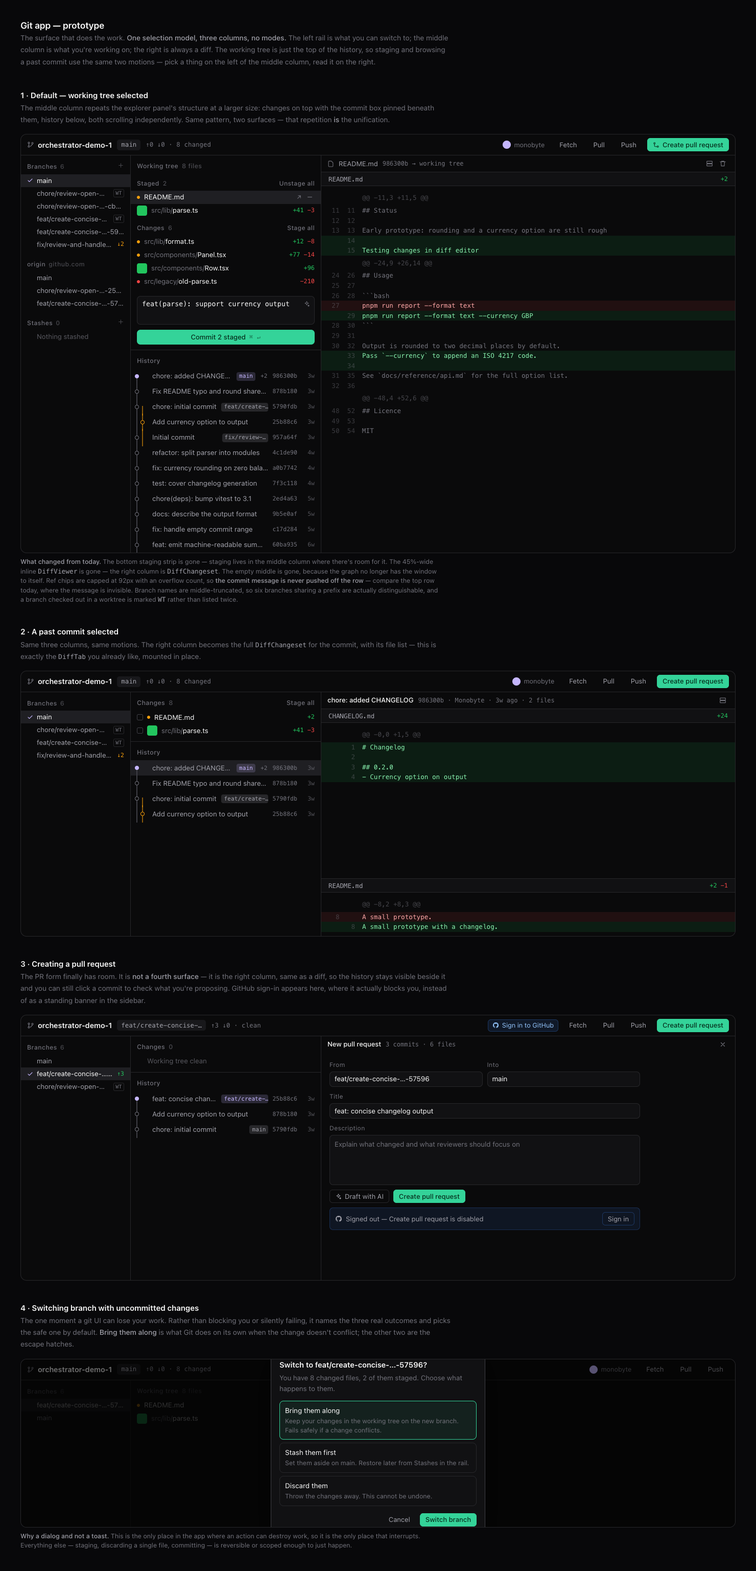
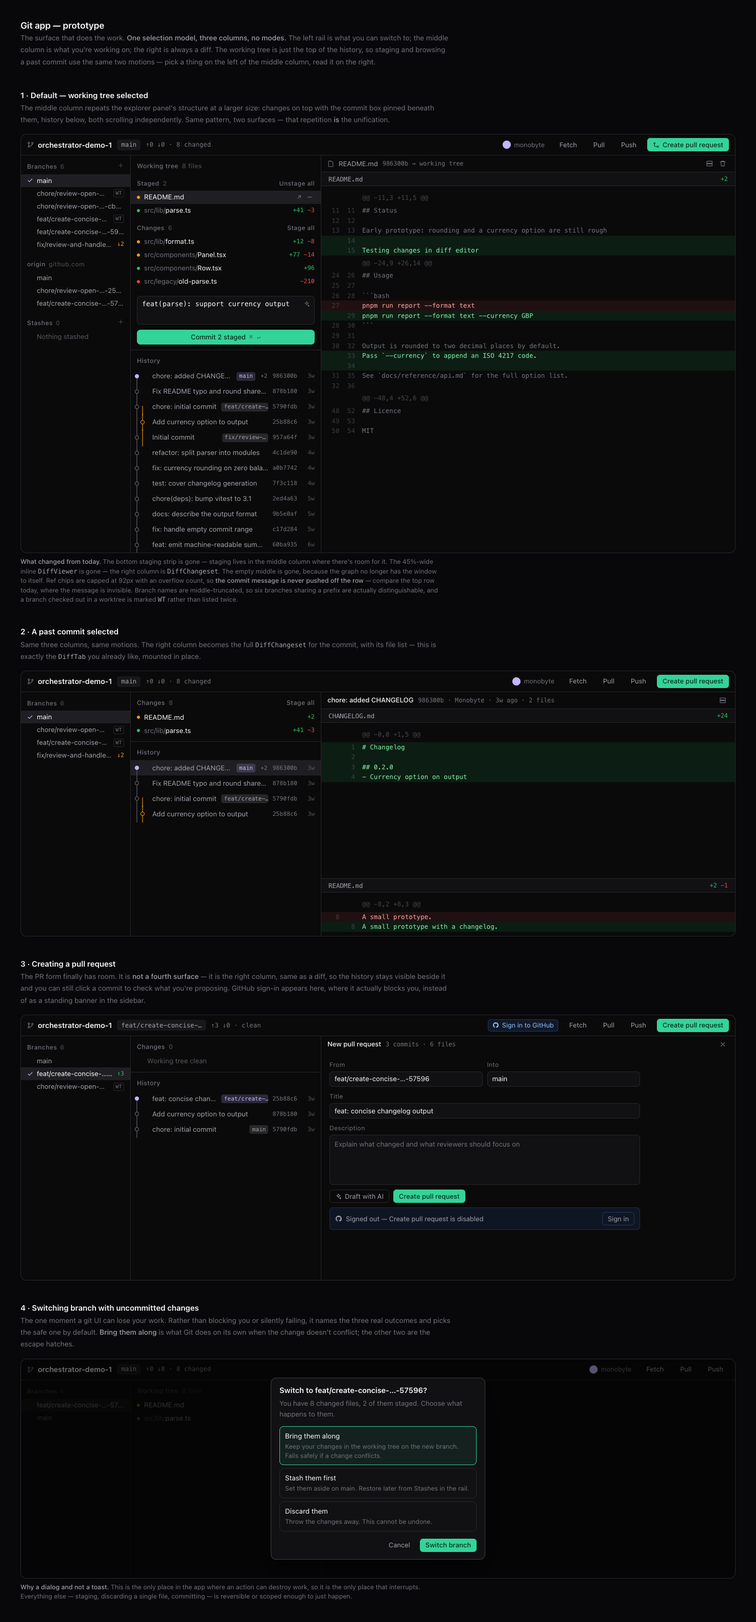
fix(prototype): dot/button class collision, stray checkboxes, draggable graph split (#302)

diff --git a/docs/prototypes/git-ux/git-graph.html b/docs/prototypes/git-ux/git-graph.html
@@ -62,6 +62,7 @@ svg{flex:0 0 auto}
   color:var(--text-muted);text-transform:uppercase;flex:0 0 auto}
 .ghead .c1{width:210px;padding-left:14px} .ghead .c2{width:180px} .ghead .c3{flex:1}
 .ghead .c4{width:84px} .ghead .c5{width:104px} .ghead .c6{width:52px;text-align:right;padding-right:14px}
+.ghead{padding-right:0}
 
 .grid{position:relative;flex:1;min-height:0}
 .rows{position:absolute;inset:0;z-index:0}
@@ -80,6 +81,15 @@ svg{flex:0 0 auto}
 .tag.head{box-shadow:inset 0 0 0 1px currentColor}
 .wip{color:var(--brand-primary);background:color-mix(in srgb,var(--brand-primary) 14%,transparent)}
 .lanes{position:absolute;left:210px;top:0;width:180px;height:420px;pointer-events:none;z-index:1}
+.grid{overflow:hidden}
+.split{height:9px;flex:0 0 9px;display:flex;align-items:center;justify-content:center;cursor:row-resize;
+  background:var(--bg-base);border-top:1px solid var(--border-subtle)}
+.split:hover{background:var(--bg-elevated)}
+.split .grip{width:38px;height:3px;border-radius:2px;background:var(--border-default)}
+.split:hover .grip{background:var(--text-muted)}
+.chev{margin-left:auto;display:flex;align-items:center;gap:5px;padding-right:14px;cursor:pointer;
+  font-size:0.72rem;letter-spacing:.06em;color:var(--text-muted)}
+.chev:hover{color:var(--text-secondary)}
 
 /* ---- bottom detail ---- */
 .detail{flex:1;min-height:0;display:flex;border-top:1px solid var(--border-subtle)}
@@ -177,6 +187,7 @@ read off the graph without checking anything.
         <div class="ghead">
           <span class="c1">Branch / tag</span><span class="c2">Graph</span><span class="c3">Commit</span>
           <span class="c4">SHA</span><span class="c5">Author</span><span class="c6">When</span>
+          <span class="chev">Collapse <svg width="12" height="12" viewBox="0 0 24 24" fill="none" stroke="currentColor" stroke-width="2" stroke-linecap="round"><path d="M6 15l6-6 6 6"/></svg></span>
         </div>
         <div class="grid">
           <svg class="lanes" width="180" height="420" viewBox="0 0 180 420">
@@ -235,6 +246,7 @@ read off the graph without checking anything.
         </div>
       </div>
 
+      <div class="split"><span class="grip"></span></div>
       <div class="detail">
         <div class="files">
           <div class="sec">Staged <span class="n">2</span><span class="act">Unstage all</span></div>
@@ -287,6 +299,173 @@ read off the graph without checking anything.
     </div>
   </div>
 </div>
+
+<h2>Dragging the split</h2>
+<p class="note">
+The divider between the graph and the working tree is draggable, and the graph header collapses it outright —
+so the same window serves both jobs. Reading history: pull it down. Committing: push it up and the diff takes
+the height. <b>You don't have to choose a layout; you choose it per moment.</b> Below is the same app with the
+graph dragged to five rows.
+</p>
+
+<div class="app" style="height:600px">
+  <div class="topbar">
+    <div class="repo">
+      <svg width="14" height="14" viewBox="0 0 24 24" fill="none" stroke="var(--text-muted)" stroke-width="2" stroke-linecap="round"><circle cx="6" cy="6" r="2.5"/><circle cx="6" cy="18" r="2.5"/><path d="M6 8.5v7"/><circle cx="18" cy="7" r="2.5"/><path d="M18 9.5c0 5-6 3.5-6 8.5"/></svg>
+      orchestrator-demo-1
+    </div>
+    <span class="bchip">main</span>
+    <span class="sync">↑0 ↓0 · 8 changed</span>
+    <span style="flex:1"></span>
+    <span class="ghchip"><span class="av"></span>monobyte</span>
+    <span class="tb">Fetch</span><span class="tb">Pull</span><span class="tb">Push</span>
+    <span class="tb solid">Create pull request</span>
+  </div>
+  <div class="hair"></div>
+
+  <div class="body">
+    <div class="rail">
+      <div class="grp">Branches <span class="n">6</span></div>
+      <div class="rrow on"><span class="sw" style="background:var(--l0)"></span><span class="nm">main</span></div>
+      <div class="rrow"><span class="sw" style="background:var(--l2)"></span><span class="nm">chore/review-open-…-25cb4</span><span class="wt">WT</span></div>
+      <div class="rrow"><span class="sw" style="background:var(--l1)"></span><span class="nm">feat/create-concise-…-57596</span><span class="wt">WT</span></div>
+      <div class="rrow"><span class="sw" style="background:var(--l3)"></span><span class="nm">fix/review-and-handle-…-e644e</span><span class="ct">↓2</span></div>
+      <div class="rrow"><span class="sw" style="background:var(--l4)"></span><span class="nm">chore/review-open-…-cb4-r6</span></div>
+      <div class="rrow"><span class="sw" style="background:var(--bg-muted)"></span><span class="nm">feat/create-concise-…-596-r2</span></div>
+
+      <div class="grp" style="padding-top:16px">origin <span class="n">github.com</span></div>
+      <div class="rrow"><span class="sw" style="background:var(--bg-muted)"></span><span class="nm">main</span></div>
+      <div class="rrow"><span class="sw" style="background:var(--bg-muted)"></span><span class="nm">chore/review-open-…-25cb4</span></div>
+      <div class="rrow"><span class="sw" style="background:var(--bg-muted)"></span><span class="nm">feat/create-concise-…-57596</span></div>
+
+      <div class="grp" style="padding-top:16px">Stashes <span class="n">0</span></div>
+      <div class="rrow" style="opacity:.6"><span class="sw"></span><span class="nm">Nothing stashed</span></div>
+    </div>
+    <div class="vhair"></div>
+
+    <div class="main">
+      <div class="graphwrap" style="height:176px;flex:0 0 176px">
+        <div class="ghead">
+          <span class="c1">Branch / tag</span><span class="c2">Graph</span><span class="c3">Commit</span>
+          <span class="c4">SHA</span><span class="c5">Author</span><span class="c6">When</span>
+          <span class="chev">Expand <svg width="12" height="12" viewBox="0 0 24 24" fill="none" stroke="currentColor" stroke-width="2" stroke-linecap="round"><path d="M6 9l6 6 6-6"/></svg></span>
+        </div>
+        <div class="grid">
+          <svg class="lanes" width="180" height="420" viewBox="0 0 180 420">
+            <!-- lane 0 : main, continuous -->
+            <path d="M20 0 V405" stroke="var(--l0)" stroke-width="2" fill="none"/>
+            <!-- lane 2 : chore/review — forks at r4, merges into main at r0 -->
+            <path d="M20 15 C20 30 56 30 56 45" stroke="var(--l2)" stroke-width="2" fill="none"/>
+            <path d="M56 45 V105" stroke="var(--l2)" stroke-width="2" fill="none"/>
+            <path d="M56 105 C56 120 20 120 20 135" stroke="var(--l2)" stroke-width="2" fill="none"/>
+            <!-- lane 1 : feat/changelog — forks at r8, merges into main at r4 -->
+            <path d="M20 135 C20 150 92 150 92 165" stroke="var(--l1)" stroke-width="2" fill="none"/>
+            <path d="M92 165 V225" stroke="var(--l1)" stroke-width="2" fill="none"/>
+            <path d="M92 225 C92 240 20 240 20 255" stroke="var(--l1)" stroke-width="2" fill="none"/>
+            <!-- lane 3 : fix/… — unmerged, tip only -->
+            <path d="M128 285 C128 300 20 300 20 315" stroke="var(--l3)" stroke-width="2" fill="none"/>
+            <!-- nodes -->
+            <circle cx="20"  cy="15"  r="5.5" fill="var(--bg-base)" stroke="var(--l0)" stroke-width="2.5"/>
+            <circle cx="20"  cy="15"  r="2"   fill="var(--l0)"/>
+            <circle cx="56"  cy="45"  r="4.5" fill="var(--bg-base)" stroke="var(--l2)" stroke-width="2"/>
+            <circle cx="56"  cy="75"  r="4.5" fill="var(--bg-base)" stroke="var(--l2)" stroke-width="2"/>
+            <circle cx="56"  cy="105" r="4.5" fill="var(--bg-base)" stroke="var(--l2)" stroke-width="2"/>
+            <circle cx="20"  cy="135" r="5.5" fill="var(--bg-base)" stroke="var(--l0)" stroke-width="2.5"/>
+            <circle cx="20"  cy="135" r="2"   fill="var(--l0)"/>
+            <circle cx="92"  cy="165" r="4.5" fill="var(--bg-base)" stroke="var(--l1)" stroke-width="2"/>
+            <circle cx="92"  cy="195" r="4.5" fill="var(--bg-base)" stroke="var(--l1)" stroke-width="2"/>
+            <circle cx="92"  cy="225" r="4.5" fill="var(--bg-base)" stroke="var(--l1)" stroke-width="2"/>
+            <circle cx="20"  cy="255" r="4.5" fill="var(--bg-base)" stroke="var(--l0)" stroke-width="2"/>
+            <circle cx="128" cy="285" r="4.5" fill="var(--bg-base)" stroke="var(--l3)" stroke-width="2"/>
+            <circle cx="20"  cy="315" r="4.5" fill="var(--bg-base)" stroke="var(--l0)" stroke-width="2"/>
+            <circle cx="20"  cy="345" r="4.5" fill="var(--bg-base)" stroke="var(--l0)" stroke-width="2"/>
+            <circle cx="20"  cy="375" r="4.5" fill="var(--bg-base)" stroke="var(--l0)" stroke-width="2"/>
+            <circle cx="20"  cy="405" r="4.5" fill="var(--bg-base)" stroke="var(--l0)" stroke-width="2"/>
+          </svg>
+
+          <div class="rows">
+            <div class="grow on">
+              <span class="c1"><span class="tag head" style="color:var(--l0);background:color-mix(in srgb,var(--l0) 16%,transparent)"><i style="background:var(--l0)"></i>main</span><span class="tag" style="color:var(--text-muted);background:var(--bg-muted)">origin/main</span></span>
+              <span class="c2"></span>
+              <span class="c3 merge">Merge branch 'chore/review-open-github-issues'</span>
+              <span class="c4">986300b</span><span class="c5">Monobyte</span><span class="c6">3w</span>
+            </div>
+            <div class="grow"><span class="c1"><span class="tag" style="color:var(--l2);background:color-mix(in srgb,var(--l2) 16%,transparent)"><i style="background:var(--l2)"></i>chore/review-…-25cb4</span></span><span class="c2"></span><span class="c3">chore: claim issue #41 and open the loop</span><span class="c4">3a37564</span><span class="c5">Monobyte</span><span class="c6">3w</span></div>
+            <div class="grow"><span class="c1"></span><span class="c2"></span><span class="c3">chore: review open GitHub issues</span><span class="c4">c8f1d02</span><span class="c5">Monobyte</span><span class="c6">3w</span></div>
+            <div class="grow"><span class="c1"></span><span class="c2"></span><span class="c3">chore: add the triage checklist</span><span class="c4">44be9a1</span><span class="c5">Monobyte</span><span class="c6">3w</span></div>
+            <div class="grow"><span class="c1"></span><span class="c2"></span><span class="c3 merge">Merge branch 'feat/create-concise-changelog'</span><span class="c4">878b180</span><span class="c5">Monobyte</span><span class="c6">3w</span></div>
+            <div class="grow"><span class="c1"><span class="tag" style="color:var(--l1);background:color-mix(in srgb,var(--l1) 16%,transparent)"><i style="background:var(--l1)"></i>feat/create-…-57596</span></span><span class="c2"></span><span class="c3">feat: concise changelog output</span><span class="c4">25b88c6</span><span class="c5">Monobyte</span><span class="c6">3w</span></div>
+            <div class="grow"><span class="c1"></span><span class="c2"></span><span class="c3">Add currency option to output</span><span class="c4">7f3c118</span><span class="c5">Monobyte</span><span class="c6">4w</span></div>
+            <div class="grow"><span class="c1"></span><span class="c2"></span><span class="c3">test: cover changelog generation</span><span class="c4">2ed4a63</span><span class="c5">Monobyte</span><span class="c6">4w</span></div>
+            <div class="grow"><span class="c1"></span><span class="c2"></span><span class="c3">Fix README typo and round shares with currency</span><span class="c4">9b5e0af</span><span class="c5">Monobyte</span><span class="c6">4w</span></div>
+            <div class="grow"><span class="c1"><span class="tag" style="color:var(--l3);background:color-mix(in srgb,var(--l3) 16%,transparent)"><i style="background:var(--l3)"></i>fix/review-…-e644e</span></span><span class="c2"></span><span class="c3">fix: handle empty commit range</span><span class="c4">c17d284</span><span class="c5">Monobyte</span><span class="c6">5w</span></div>
+            <div class="grow"><span class="c1"></span><span class="c2"></span><span class="c3">chore: added CHANGELOG</span><span class="c4">60ba935</span><span class="c5">Monobyte</span><span class="c6">5w</span></div>
+            <div class="grow"><span class="c1"></span><span class="c2"></span><span class="c3">refactor: split parser into modules</span><span class="c4">4c1de90</span><span class="c5">Monobyte</span><span class="c6">5w</span></div>
+            <div class="grow"><span class="c1"></span><span class="c2"></span><span class="c3">refactor: drop the legacy formatter</span><span class="c4">e94f501</span><span class="c5">Monobyte</span><span class="c6">6w</span></div>
+            <div class="grow"><span class="c1"></span><span class="c2"></span><span class="c3">chore: initial commit</span><span class="c4">5790fdb</span><span class="c5">Monobyte</span><span class="c6">6w</span></div>
+          </div>
+        </div>
+      </div>
+
+      <div class="split"><span class="grip"></span></div>
+      <div class="detail">
+        <div class="files">
+          <div class="sec">Staged <span class="n">2</span><span class="act">Unstage all</span></div>
+          <div class="frow on"><span class="dot m"></span><span class="fn">README.md</span><span class="st"><span class="p">+2</span></span>
+            <span class="acts">
+              <span class="ab" title="Open in Explorer"><svg width="13" height="13" viewBox="0 0 24 24" fill="none" stroke="currentColor" stroke-width="2" stroke-linecap="round"><path d="M7 17 17 7M9 7h8v8"/></svg></span>
+              <span class="ab" title="Unstage"><svg width="13" height="13" viewBox="0 0 24 24" fill="none" stroke="currentColor" stroke-width="2.2" stroke-linecap="round"><path d="M5 12h14"/></svg></span>
+            </span>
+          </div>
+          <div class="frow"><span class="dot a"></span><span class="fn"><span class="dir">src/lib/</span>parse.ts</span><span class="st"><span class="p">+41</span> <span class="m">−3</span></span></div>
+          <div class="sec" style="padding-top:10px">Changes <span class="n">6</span><span class="act">Stage all</span></div>
+          <div class="frow"><span class="dot m"></span><span class="fn"><span class="dir">src/lib/</span>format.ts</span><span class="st"><span class="p">+12</span> <span class="m">−8</span></span></div>
+          <div class="frow"><span class="dot m"></span><span class="fn"><span class="dir">src/components/</span>Panel.tsx</span><span class="st"><span class="p">+77</span> <span class="m">−14</span></span></div>
+          <div class="frow"><span class="dot a"></span><span class="fn"><span class="dir">src/components/</span>Row.tsx</span><span class="st"><span class="p">+96</span></span></div>
+          <div class="frow"><span class="dot d"></span><span class="fn"><span class="dir">src/legacy/</span>old-parse.ts</span><span class="st"><span class="m">−210</span></span></div>
+          <div class="frow"><span class="dot m"></span><span class="fn">package.json</span><span class="st"><span class="p">+3</span> <span class="m">−1</span></span></div>
+          <div class="frow"><span class="dot m"></span><span class="fn"><span class="dir">docs/reference/</span>api.md</span><span class="st"><span class="p">+18</span> <span class="m">−2</span></span></div>
+          <div class="cbox">
+            <div class="mw">
+              <textarea class="mi">feat(parse): support currency output</textarea>
+              <span class="ai"><svg width="13" height="13" viewBox="0 0 24 24" fill="none" stroke="currentColor" stroke-width="1.8" stroke-linecap="round" stroke-linejoin="round"><path d="M12 3l1.9 4.6L18.5 9.5 13.9 11.4 12 16l-1.9-4.6L5.5 9.5l4.6-1.9z"/><path d="M18.5 15.5l.8 2 2 .8-2 .8-.8 2-.8-2-2-.8 2-.8z"/></svg></span>
+            </div>
+            <div class="cbtn">Commit 2 staged <span class="kbd">⌘ ↵</span></div>
+          </div>
+        </div>
+
+        <div class="diff">
+          <div class="dbar">
+            <svg width="13" height="13" viewBox="0 0 24 24" fill="none" stroke="var(--text-muted)" stroke-width="2"><path d="M14 2H6a2 2 0 0 0-2 2v16a2 2 0 0 0 2 2h12a2 2 0 0 0 2-2V8z"/></svg>
+            README.md <span class="mut">986300b → working tree</span>
+          </div>
+          <div class="fh">README.md</div>
+          <div class="dbody">
+            <div class="dl hunk"><span class="ln"></span><span class="tx">@@ -11,3 +11,5 @@</span></div>
+            <div class="dl"><span class="ln">11&nbsp;&nbsp;11</span><span class="tx">## Status</span></div>
+            <div class="dl"><span class="ln">12&nbsp;&nbsp;12</span><span class="tx"></span></div>
+            <div class="dl"><span class="ln">13&nbsp;&nbsp;13</span><span class="tx">Early prototype: rounding and a currency option are still rough</span></div>
+            <div class="dl add"><span class="ln">&nbsp;&nbsp;&nbsp;&nbsp;14</span><span class="tx"></span></div>
+            <div class="dl add"><span class="ln">&nbsp;&nbsp;&nbsp;&nbsp;15</span><span class="tx">Testing changes in diff editor</span></div>
+            <div class="dl hunk"><span class="ln"></span><span class="tx">@@ -24,9 +26,14 @@</span></div>
+            <div class="dl"><span class="ln">24&nbsp;&nbsp;26</span><span class="tx">## Usage</span></div>
+            <div class="dl"><span class="ln">25&nbsp;&nbsp;27</span><span class="tx"></span></div>
+            <div class="dl"><span class="ln">26&nbsp;&nbsp;28</span><span class="tx">```bash</span></div>
+            <div class="dl del"><span class="ln">27&nbsp;&nbsp;&nbsp;&nbsp;</span><span class="tx">pnpm run report --format text</span></div>
+            <div class="dl add"><span class="ln">&nbsp;&nbsp;&nbsp;&nbsp;29</span><span class="tx">pnpm run report --format text --currency GBP</span></div>
+            <div class="dl"><span class="ln">28&nbsp;&nbsp;30</span><span class="tx">```</span></div>
+          </div>
+        </div>
+      </div>
+    </div>
+  </div>
+</div>
+
+
+<p class="spec">
+Dragged position persists per workspace, so a repo you mostly commit in stays collapsed and a repo you mostly
+read stays open.
+</p>
 
 <p class="spec">
 <b>What the graph now tells you that a gutter can't.</b> That <code>main</code> absorbed two branches and in which

diff --git a/docs/prototypes/git-ux/git-app.html b/docs/prototypes/git-ux/git-app.html
@@ -69,9 +69,6 @@ svg{flex:0 0 auto}
 .sec .act:hover{color:var(--text-secondary)}
 .frow{display:flex;align-items:center;gap:8px;height:26px;padding:0 12px;cursor:pointer}
 .frow:hover{background:var(--bg-elevated)} .frow.on{background:var(--bg-overlay)}
-.ck{width:12px;height:12px;border-radius:3px;border:1px solid var(--border-default);flex:0 0 auto;
-  display:flex;align-items:center;justify-content:center}
-.ck.y{background:var(--brand-primary);border-color:var(--brand-primary)}
 .dot{width:6px;height:6px;border-radius:50%;flex:0 0 auto}
 .dot.m{background:var(--status-warning)} .dot.a{background:var(--status-success)} .dot.d{background:var(--status-error)}
 .fn{flex:1;min-width:0;font-size:0.84rem;color:var(--text-primary);white-space:nowrap;overflow:hidden;text-overflow:ellipsis}
@@ -96,10 +93,10 @@ svg{flex:0 0 auto}
 .acts{display:none;align-items:center;gap:1px;flex:0 0 auto}
 .frow.on .acts,.frow:hover .acts{display:flex}
 .frow.on .st,.frow:hover .st{display:none}
-.a{width:20px;height:20px;border-radius:4px;display:flex;align-items:center;justify-content:center;
+.ab{width:20px;height:20px;border-radius:4px;display:flex;align-items:center;justify-content:center;
   color:var(--text-muted);cursor:pointer}
-.a:hover{background:var(--bg-muted);color:var(--text-primary)}
-.a.danger:hover{color:var(--status-error)}
+.ab:hover{background:var(--bg-muted);color:var(--text-primary)}
+.ab.danger:hover{color:var(--status-error)}
 .ghchip{display:inline-flex;align-items:center;gap:6px;height:24px;padding:0 8px;border-radius:6px;
   font-size:0.8rem;color:var(--text-muted);cursor:pointer}
 .ghchip:hover{background:var(--bg-elevated);color:var(--text-secondary)}
@@ -235,9 +232,9 @@ pinned beneath them, history below, both scrolling independently. Same pattern, 
       <div class="sec">Working tree <span class="n">8 files</span></div>
       <div class="scroller" style="max-height:230px">
         <div class="subsec">Staged <span class="n">2</span><span class="act">Unstage all</span></div>
-        <div class="frow on"><span class="dot m"></span><span class="fn">README.md</span><span class="st"><span class="p">+2</span></span><span class="acts"><div class="a" title="Open file in Explorer"><svg width="13" height="13" viewBox="0 0 24 24" fill="none" stroke="currentColor" stroke-width="2" stroke-linecap="round"><path d="M7 17 17 7M9 7h8v8"/></svg></div><div class="a" title="Unstage"><svg width="13" height="13" viewBox="0 0 24 24" fill="none" stroke="currentColor" stroke-width="2.2" stroke-linecap="round"><path d="M5 12h14"/></svg></div></span></div><div class="frow"><span class="dot a"></span><span class="fn"><span class="dir">src/lib/</span>parse.ts</span><span class="st"><span class="p">+41</span> <span class="m">−3</span></span><span class="acts"><div class="a" title="Open file in Explorer"><svg width="13" height="13" viewBox="0 0 24 24" fill="none" stroke="currentColor" stroke-width="2" stroke-linecap="round"><path d="M7 17 17 7M9 7h8v8"/></svg></div><div class="a" title="Unstage"><svg width="13" height="13" viewBox="0 0 24 24" fill="none" stroke="currentColor" stroke-width="2.2" stroke-linecap="round"><path d="M5 12h14"/></svg></div></span></div>
+        <div class="frow on"><span class="dot m"></span><span class="fn">README.md</span><span class="st"><span class="p">+2</span></span><span class="acts"><div class="ab" title="Open file in Explorer"><svg width="13" height="13" viewBox="0 0 24 24" fill="none" stroke="currentColor" stroke-width="2" stroke-linecap="round"><path d="M7 17 17 7M9 7h8v8"/></svg></div><div class="ab" title="Unstage"><svg width="13" height="13" viewBox="0 0 24 24" fill="none" stroke="currentColor" stroke-width="2.2" stroke-linecap="round"><path d="M5 12h14"/></svg></div></span></div><div class="frow"><span class="dot a"></span><span class="fn"><span class="dir">src/lib/</span>parse.ts</span><span class="st"><span class="p">+41</span> <span class="m">−3</span></span><span class="acts"><div class="ab" title="Open file in Explorer"><svg width="13" height="13" viewBox="0 0 24 24" fill="none" stroke="currentColor" stroke-width="2" stroke-linecap="round"><path d="M7 17 17 7M9 7h8v8"/></svg></div><div class="ab" title="Unstage"><svg width="13" height="13" viewBox="0 0 24 24" fill="none" stroke="currentColor" stroke-width="2.2" stroke-linecap="round"><path d="M5 12h14"/></svg></div></span></div>
         <div class="subsec" style="padding-top:11px">Changes <span class="n">6</span><span class="act">Stage all</span></div>
-        <div class="frow"><span class="dot m"></span><span class="fn"><span class="dir">src/lib/</span>format.ts</span><span class="st"><span class="p">+12</span> <span class="m">−8</span></span><span class="acts"><div class="a" title="Open file in Explorer"><svg width="13" height="13" viewBox="0 0 24 24" fill="none" stroke="currentColor" stroke-width="2" stroke-linecap="round"><path d="M7 17 17 7M9 7h8v8"/></svg></div><div class="a danger" title="Discard changes"><svg width="13" height="13" viewBox="0 0 24 24" fill="none" stroke="currentColor" stroke-width="2" stroke-linecap="round"><path d="M4 5h16M9 5V3.5h6V5M7 5l1 15h8l1-15"/></svg></div><div class="a" title="Stage"><svg width="13" height="13" viewBox="0 0 24 24" fill="none" stroke="currentColor" stroke-width="2.2" stroke-linecap="round"><path d="M12 5v14M5 12h14"/></svg></div></span></div><div class="frow"><span class="dot m"></span><span class="fn"><span class="dir">src/components/</span>Panel.tsx</span><span class="st"><span class="p">+77</span> <span class="m">−14</span></span><span class="acts"><div class="a" title="Open file in Explorer"><svg width="13" height="13" viewBox="0 0 24 24" fill="none" stroke="currentColor" stroke-width="2" stroke-linecap="round"><path d="M7 17 17 7M9 7h8v8"/></svg></div><div class="a danger" title="Discard changes"><svg width="13" height="13" viewBox="0 0 24 24" fill="none" stroke="currentColor" stroke-width="2" stroke-linecap="round"><path d="M4 5h16M9 5V3.5h6V5M7 5l1 15h8l1-15"/></svg></div><div class="a" title="Stage"><svg width="13" height="13" viewBox="0 0 24 24" fill="none" stroke="currentColor" stroke-width="2.2" stroke-linecap="round"><path d="M12 5v14M5 12h14"/></svg></div></span></div><div class="frow"><span class="dot a"></span><span class="fn"><span class="dir">src/components/</span>Row.tsx</span><span class="st"><span class="p">+96</span></span><span class="acts"><div class="a" title="Open file in Explorer"><svg width="13" height="13" viewBox="0 0 24 24" fill="none" stroke="currentColor" stroke-width="2" stroke-linecap="round"><path d="M7 17 17 7M9 7h8v8"/></svg></div><div class="a danger" title="Discard changes"><svg width="13" height="13" viewBox="0 0 24 24" fill="none" stroke="currentColor" stroke-width="2" stroke-linecap="round"><path d="M4 5h16M9 5V3.5h6V5M7 5l1 15h8l1-15"/></svg></div><div class="a" title="Stage"><svg width="13" height="13" viewBox="0 0 24 24" fill="none" stroke="currentColor" stroke-width="2.2" stroke-linecap="round"><path d="M12 5v14M5 12h14"/></svg></div></span></div><div class="frow"><span class="dot d"></span><span class="fn"><span class="dir">src/legacy/</span>old-parse.ts</span><span class="st"><span class="m">−210</span></span><span class="acts"><div class="a" title="Open file in Explorer"><svg width="13" height="13" viewBox="0 0 24 24" fill="none" stroke="currentColor" stroke-width="2" stroke-linecap="round"><path d="M7 17 17 7M9 7h8v8"/></svg></div><div class="a danger" title="Discard changes"><svg width="13" height="13" viewBox="0 0 24 24" fill="none" stroke="currentColor" stroke-width="2" stroke-linecap="round"><path d="M4 5h16M9 5V3.5h6V5M7 5l1 15h8l1-15"/></svg></div><div class="a" title="Stage"><svg width="13" height="13" viewBox="0 0 24 24" fill="none" stroke="currentColor" stroke-width="2.2" stroke-linecap="round"><path d="M12 5v14M5 12h14"/></svg></div></span></div><div class="frow"><span class="dot m"></span><span class="fn">package.json</span><span class="st"><span class="p">+3</span> <span class="m">−1</span></span><span class="acts"><div class="a" title="Open file in Explorer"><svg width="13" height="13" viewBox="0 0 24 24" fill="none" stroke="currentColor" stroke-width="2" stroke-linecap="round"><path d="M7 17 17 7M9 7h8v8"/></svg></div><div class="a danger" title="Discard changes"><svg width="13" height="13" viewBox="0 0 24 24" fill="none" stroke="currentColor" stroke-width="2" stroke-linecap="round"><path d="M4 5h16M9 5V3.5h6V5M7 5l1 15h8l1-15"/></svg></div><div class="a" title="Stage"><svg width="13" height="13" viewBox="0 0 24 24" fill="none" stroke="currentColor" stroke-width="2.2" stroke-linecap="round"><path d="M12 5v14M5 12h14"/></svg></div></span></div><div class="frow"><span class="dot m"></span><span class="fn"><span class="dir">docs/reference/</span>api.md</span><span class="st"><span class="p">+18</span> <span class="m">−2</span></span><span class="acts"><div class="a" title="Open file in Explorer"><svg width="13" height="13" viewBox="0 0 24 24" fill="none" stroke="currentColor" stroke-width="2" stroke-linecap="round"><path d="M7 17 17 7M9 7h8v8"/></svg></div><div class="a danger" title="Discard changes"><svg width="13" height="13" viewBox="0 0 24 24" fill="none" stroke="currentColor" stroke-width="2" stroke-linecap="round"><path d="M4 5h16M9 5V3.5h6V5M7 5l1 15h8l1-15"/></svg></div><div class="a" title="Stage"><svg width="13" height="13" viewBox="0 0 24 24" fill="none" stroke="currentColor" stroke-width="2.2" stroke-linecap="round"><path d="M12 5v14M5 12h14"/></svg></div></span></div>
+        <div class="frow"><span class="dot m"></span><span class="fn"><span class="dir">src/lib/</span>format.ts</span><span class="st"><span class="p">+12</span> <span class="m">−8</span></span><span class="acts"><div class="ab" title="Open file in Explorer"><svg width="13" height="13" viewBox="0 0 24 24" fill="none" stroke="currentColor" stroke-width="2" stroke-linecap="round"><path d="M7 17 17 7M9 7h8v8"/></svg></div><div class="ab danger" title="Discard changes"><svg width="13" height="13" viewBox="0 0 24 24" fill="none" stroke="currentColor" stroke-width="2" stroke-linecap="round"><path d="M4 5h16M9 5V3.5h6V5M7 5l1 15h8l1-15"/></svg></div><div class="ab" title="Stage"><svg width="13" height="13" viewBox="0 0 24 24" fill="none" stroke="currentColor" stroke-width="2.2" stroke-linecap="round"><path d="M12 5v14M5 12h14"/></svg></div></span></div><div class="frow"><span class="dot m"></span><span class="fn"><span class="dir">src/components/</span>Panel.tsx</span><span class="st"><span class="p">+77</span> <span class="m">−14</span></span><span class="acts"><div class="ab" title="Open file in Explorer"><svg width="13" height="13" viewBox="0 0 24 24" fill="none" stroke="currentColor" stroke-width="2" stroke-linecap="round"><path d="M7 17 17 7M9 7h8v8"/></svg></div><div class="ab danger" title="Discard changes"><svg width="13" height="13" viewBox="0 0 24 24" fill="none" stroke="currentColor" stroke-width="2" stroke-linecap="round"><path d="M4 5h16M9 5V3.5h6V5M7 5l1 15h8l1-15"/></svg></div><div class="ab" title="Stage"><svg width="13" height="13" viewBox="0 0 24 24" fill="none" stroke="currentColor" stroke-width="2.2" stroke-linecap="round"><path d="M12 5v14M5 12h14"/></svg></div></span></div><div class="frow"><span class="dot a"></span><span class="fn"><span class="dir">src/components/</span>Row.tsx</span><span class="st"><span class="p">+96</span></span><span class="acts"><div class="ab" title="Open file in Explorer"><svg width="13" height="13" viewBox="0 0 24 24" fill="none" stroke="currentColor" stroke-width="2" stroke-linecap="round"><path d="M7 17 17 7M9 7h8v8"/></svg></div><div class="ab danger" title="Discard changes"><svg width="13" height="13" viewBox="0 0 24 24" fill="none" stroke="currentColor" stroke-width="2" stroke-linecap="round"><path d="M4 5h16M9 5V3.5h6V5M7 5l1 15h8l1-15"/></svg></div><div class="ab" title="Stage"><svg width="13" height="13" viewBox="0 0 24 24" fill="none" stroke="currentColor" stroke-width="2.2" stroke-linecap="round"><path d="M12 5v14M5 12h14"/></svg></div></span></div><div class="frow"><span class="dot d"></span><span class="fn"><span class="dir">src/legacy/</span>old-parse.ts</span><span class="st"><span class="m">−210</span></span><span class="acts"><div class="ab" title="Open file in Explorer"><svg width="13" height="13" viewBox="0 0 24 24" fill="none" stroke="currentColor" stroke-width="2" stroke-linecap="round"><path d="M7 17 17 7M9 7h8v8"/></svg></div><div class="ab danger" title="Discard changes"><svg width="13" height="13" viewBox="0 0 24 24" fill="none" stroke="currentColor" stroke-width="2" stroke-linecap="round"><path d="M4 5h16M9 5V3.5h6V5M7 5l1 15h8l1-15"/></svg></div><div class="ab" title="Stage"><svg width="13" height="13" viewBox="0 0 24 24" fill="none" stroke="currentColor" stroke-width="2.2" stroke-linecap="round"><path d="M12 5v14M5 12h14"/></svg></div></span></div><div class="frow"><span class="dot m"></span><span class="fn">package.json</span><span class="st"><span class="p">+3</span> <span class="m">−1</span></span><span class="acts"><div class="ab" title="Open file in Explorer"><svg width="13" height="13" viewBox="0 0 24 24" fill="none" stroke="currentColor" stroke-width="2" stroke-linecap="round"><path d="M7 17 17 7M9 7h8v8"/></svg></div><div class="ab danger" title="Discard changes"><svg width="13" height="13" viewBox="0 0 24 24" fill="none" stroke="currentColor" stroke-width="2" stroke-linecap="round"><path d="M4 5h16M9 5V3.5h6V5M7 5l1 15h8l1-15"/></svg></div><div class="ab" title="Stage"><svg width="13" height="13" viewBox="0 0 24 24" fill="none" stroke="currentColor" stroke-width="2.2" stroke-linecap="round"><path d="M12 5v14M5 12h14"/></svg></div></span></div><div class="frow"><span class="dot m"></span><span class="fn"><span class="dir">docs/reference/</span>api.md</span><span class="st"><span class="p">+18</span> <span class="m">−2</span></span><span class="acts"><div class="ab" title="Open file in Explorer"><svg width="13" height="13" viewBox="0 0 24 24" fill="none" stroke="currentColor" stroke-width="2" stroke-linecap="round"><path d="M7 17 17 7M9 7h8v8"/></svg></div><div class="ab danger" title="Discard changes"><svg width="13" height="13" viewBox="0 0 24 24" fill="none" stroke="currentColor" stroke-width="2" stroke-linecap="round"><path d="M4 5h16M9 5V3.5h6V5M7 5l1 15h8l1-15"/></svg></div><div class="ab" title="Stage"><svg width="13" height="13" viewBox="0 0 24 24" fill="none" stroke="currentColor" stroke-width="2.2" stroke-linecap="round"><path d="M12 5v14M5 12h14"/></svg></div></span></div>
       </div>
 
       <div class="cbox">
@@ -334,8 +331,8 @@ with its file list — this is exactly the <code>DiffTab</code> you already like
     <div class="vhair"></div>
     <div class="work">
       <div class="sec">Changes <span class="n">8</span><span class="act">Stage all</span></div>
-      <div class="frow"><span class="ck"></span><span class="dot m"></span><span class="fn">README.md</span><span class="st"><span class="p">+2</span></span></div>
-      <div class="frow"><span class="ck"></span><span class="dot a"></span><span class="fn"><span class="dir">src/lib/</span>parse.ts</span><span class="st"><span class="p">+41</span> <span class="m">−3</span></span></div>
+      <div class="frow"><span class="dot m"></span><span class="fn">README.md</span><span class="st"><span class="p">+2</span></span></div>
+      <div class="frow"><span class="dot a"></span><span class="fn"><span class="dir">src/lib/</span>parse.ts</span><span class="st"><span class="p">+41</span> <span class="m">−3</span></span></div>
       <div class="hair" style="margin-top:8px"></div>
       <div class="sec">History</div>
       <div class="scroller" style="flex:1;min-height:0">
@@ -449,7 +446,7 @@ real outcomes and picks the safe one by default. <b>Bring them along</b> is what
 change doesn't conflict; the other two are the escape hatches.
 </p>
 
-<div class="app short" style="height:330px;position:relative">
+<div class="app short" style="height:430px;position:relative">
   <div class="topbar">
     <div class="repo"><svg width="14" height="14" viewBox="0 0 24 24" fill="none" stroke="var(--text-muted)" stroke-width="2" stroke-linecap="round"><circle cx="6" cy="6" r="2.5"/><circle cx="6" cy="18" r="2.5"/><path d="M6 8.5v7"/><circle cx="18" cy="7" r="2.5"/><path d="M18 9.5c0 5-6 3.5-6 8.5"/></svg> orchestrator-demo-1</div>
     <span class="bchip">main</span><span class="sync">↑0 ↓0 · 8 changed</span>
